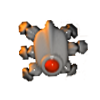
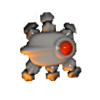
buried robot animation combined with rotation. images rotated 90 degree. image num3 removed in code

Changed region(s): [[0.18, 0.12, 0.9, 0.84]]

diff --git a/src/game/Utils/Utility.java b/src/game/Utils/Utility.java
@@ -17,10 +17,11 @@ public class Utility
 
     public static BufferedImage buriedRobot01 = loadBufferedImage(resourceDirectory + "buriedRobot/buriedRobot01.png");
     public static BufferedImage buriedRobot02 = loadBufferedImage(resourceDirectory + "buriedRobot/buriedRobot02.png");
-    public static BufferedImage buriedRobot03 = loadBufferedImage(resourceDirectory + "buriedRobot/buriedRobot03.png");
+//    public static BufferedImage buriedRobot03 = loadBufferedImage(resourceDirectory + "buriedRobot/buriedRobot03.png");
     public static BufferedImage buriedRobot04 = loadBufferedImage(resourceDirectory + "buriedRobot/buriedRobot04.png");
     public static BufferedImage buriedRobot05 = loadBufferedImage(resourceDirectory + "buriedRobot/buriedRobot05.png");
-    public static Animation buriedRobotAnimation = new Animation(5, buriedRobot01, buriedRobot05, buriedRobot02, buriedRobot04, buriedRobot03);
+//    public static Animation buriedRobotAnimation = new Animation(4, buriedRobot01, buriedRobot05, buriedRobot02, buriedRobot04, buriedRobot03);
+    public static Animation buriedRobotAnimation = new Animation(4, buriedRobot01, buriedRobot05, buriedRobot02, buriedRobot04);
 
     public static BufferedImage heavyBullet = loadBufferedImage(resourceDirectory + "heavyBullet.png");
     public static BufferedImage lightBullet = loadBufferedImage(resourceDirectory + "lightBullet.png");

diff --git a/src/game/template/bufferstrategy/GameFrame.java b/src/game/template/bufferstrategy/GameFrame.java
@@ -225,14 +225,14 @@ public class GameFrame extends JFrame
         {
             if (robots.get(i).isActivated())
             {
-                Utility.buriedRobotAnimation.drawAnimation(g2d, (int) robots.get(i).getX(), (int) robots.get(i).getY(), 0);
                 AffineTransform gunTrans = g2d.getTransform();
                 gunTrans.rotate(state.objects.getRobots().get(i).getAngle(),
                         state.objects.getRobots().get(i).getX() + 50 ,
                         state.objects.getRobots().get(i).getY() + 50 );
 
                 g2d.setTransform(gunTrans);
-                g2d.drawImage(Utility.buriedRobot, null, (int) robots.get(i).getX(), (int) robots.get(i).getY());
+//                g2d.drawImage(Utility.buriedRobot, null, (int) robots.get(i).getX(), (int) robots.get(i).getY());
+                Utility.buriedRobotAnimation.drawAnimation(g2d, (int) robots.get(i).getX(), (int) robots.get(i).getY(), 0);
                 g2d.setTransform(gameTransform);
             }
         }
